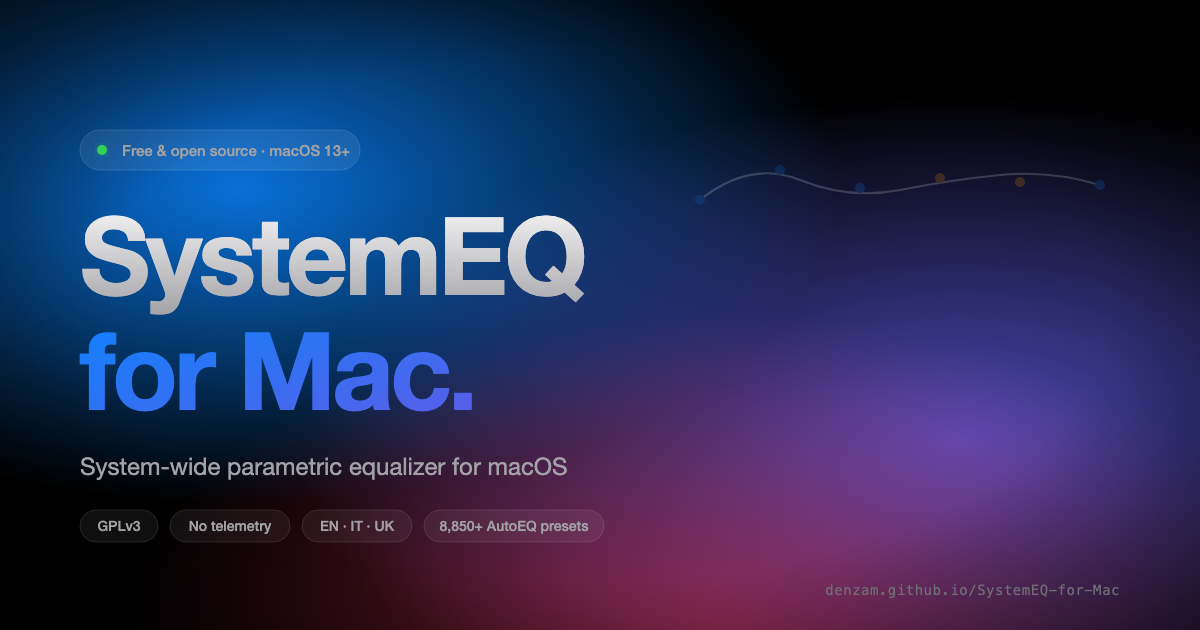
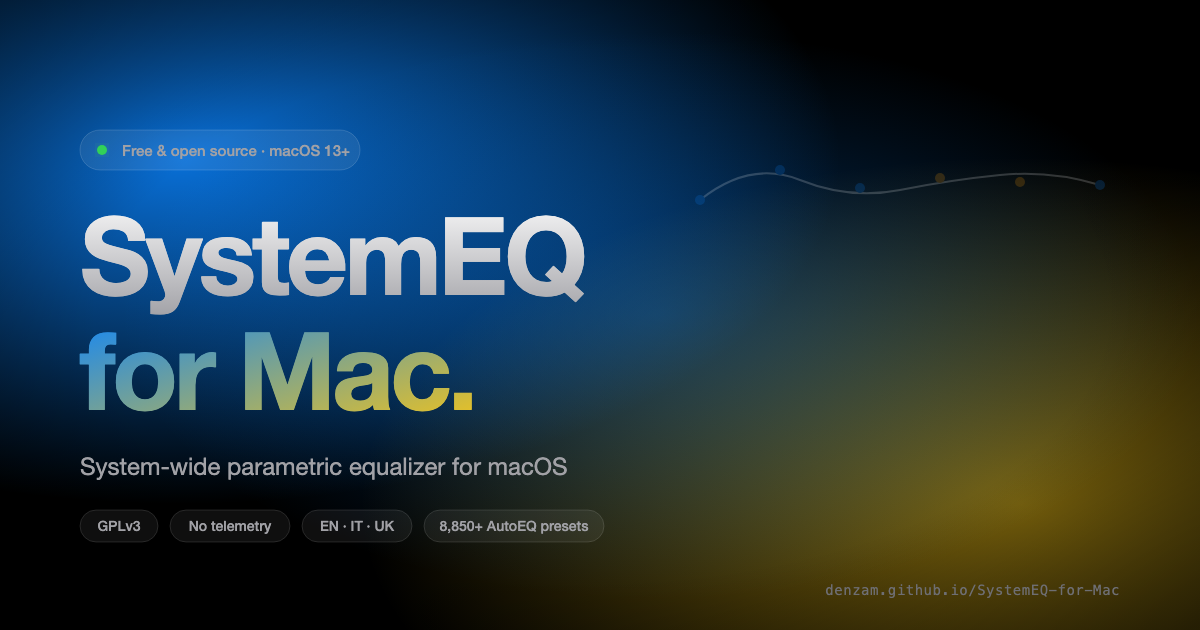
palette: Ukrainian blue + soft yellow, drop red
Switch the background gradient story from blue/purple/red to muted blue +
soft yellow as a quiet nod to the maintainer's Ukrainian origin. The yellow
opacity is intentionally low so it doesn't feel flag-loud — just warm.

Applies to:
- Animated mesh blobs (desktop): replace purple b2 with yellow, swap red b3
  for a second soft blue accent
- Mobile static gradient fallback: blue + yellow + blue
- Cursor-tracked glow: blue→yellow radial
- OG image SVG + regenerated PNG

diff --git a/index.html b/index.html
@@ -33,6 +33,7 @@
     --accent: #0a84ff;
     --accent-hover: #409cff;
     --accent-glow: rgba(10, 132, 255, 0.4);
+    --yellow: #f5c518;
     --purple: #5e5ce6;
     --green: #30d158;
     --orange: #ff9f0a;
@@ -86,21 +87,21 @@
     width: 60vw; height: 60vw;
     background: radial-gradient(circle, #0a84ff 0%, transparent 70%);
     top: -20vw; left: -10vw;
-    opacity: 0.55;
+    opacity: 0.5;
     animation: float1 22s ease-in-out infinite;
   }
   .bg-mesh .b2 {
-    width: 50vw; height: 50vw;
-    background: radial-gradient(circle, #5e5ce6 0%, transparent 70%);
-    top: 30vh; right: -15vw;
-    opacity: 0.55;
+    width: 55vw; height: 55vw;
+    background: radial-gradient(circle, #f5c518 0%, transparent 70%);
+    bottom: -15vw; right: -10vw;
+    opacity: 0.32;
     animation: float2 28s ease-in-out infinite;
   }
   .bg-mesh .b3 {
-    width: 45vw; height: 45vw;
-    background: radial-gradient(circle, #ff375f 0%, transparent 70%);
-    bottom: -15vw; left: 30vw;
-    opacity: 0.3;
+    width: 40vw; height: 40vw;
+    background: radial-gradient(circle, #0a84ff 0%, transparent 70%);
+    top: 50vh; left: 35vw;
+    opacity: 0.28;
     animation: float3 35s ease-in-out infinite;
   }
   @keyframes float1 {
@@ -129,7 +130,7 @@
     pointer-events: none;
     z-index: -1;
     border-radius: 50%;
-    background: radial-gradient(circle, rgba(94,92,230,0.22) 0%, rgba(10,132,255,0.1) 35%, transparent 70%);
+    background: radial-gradient(circle, rgba(10,132,255,0.24) 0%, rgba(245,197,24,0.1) 40%, transparent 70%);
     transform: translate(-50%, -50%) translate3d(0, 0, 0);
     opacity: 0;
     transition: opacity 0.3s ease;
@@ -145,14 +146,15 @@
   }
 
   /* iOS Safari struggles with large blurred fixed children — fall back to
-     a static multi-stop radial-gradient on the mesh container itself. */
+     a static multi-stop radial-gradient on the mesh container itself.
+     Palette: soft blue + soft yellow (Ukrainian flag, intentionally muted). */
   @media (max-width: 720px) {
     .bg-mesh .blob { display: none; }
     .bg-mesh {
       background:
-        radial-gradient(ellipse 90% 50% at 15% 12%, rgba(10, 132, 255, 0.55) 0%, transparent 60%),
-        radial-gradient(ellipse 80% 50% at 90% 45%, rgba(94, 92, 230, 0.5) 0%, transparent 60%),
-        radial-gradient(ellipse 90% 45% at 50% 95%, rgba(255, 55, 95, 0.4) 0%, transparent 65%),
+        radial-gradient(ellipse 95% 55% at 12% 10%, rgba(10, 132, 255, 0.5) 0%, transparent 60%),
+        radial-gradient(ellipse 95% 50% at 88% 92%, rgba(245, 197, 24, 0.28) 0%, transparent 60%),
+        radial-gradient(ellipse 70% 40% at 50% 50%, rgba(10, 132, 255, 0.22) 0%, transparent 65%),
         #000;
     }
   }
